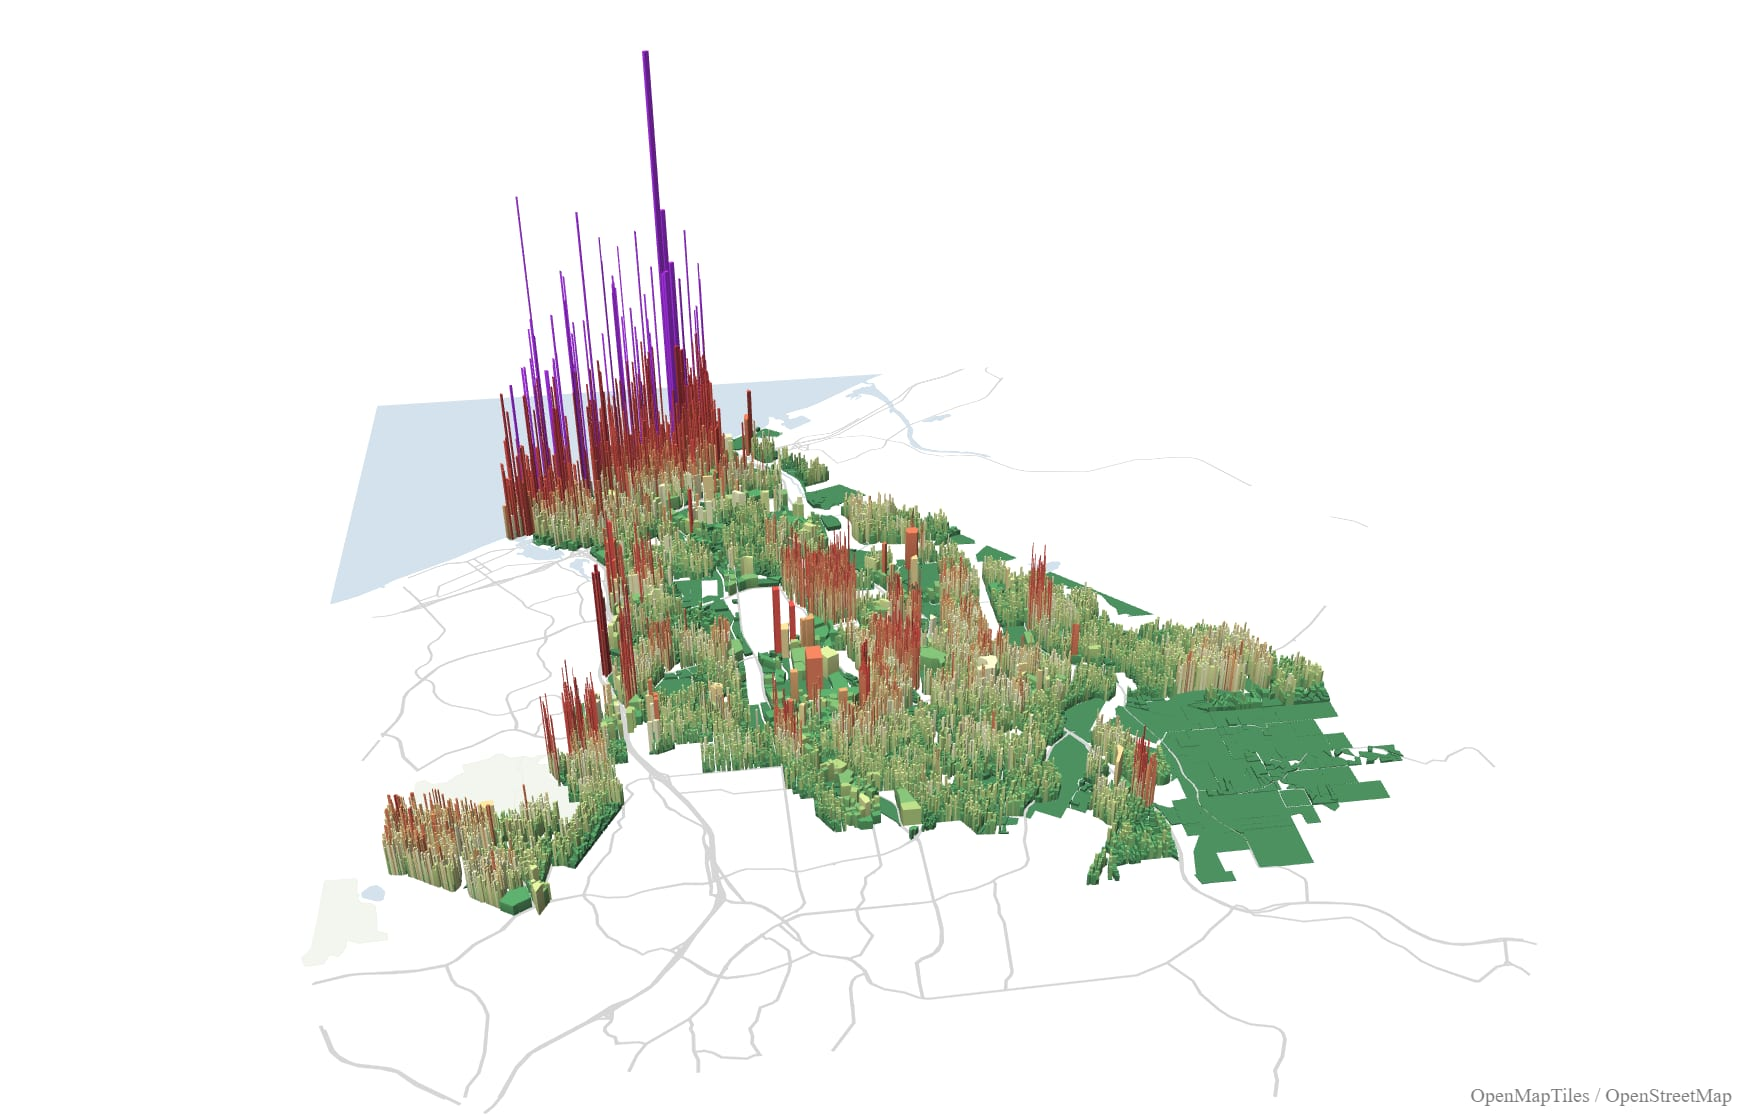
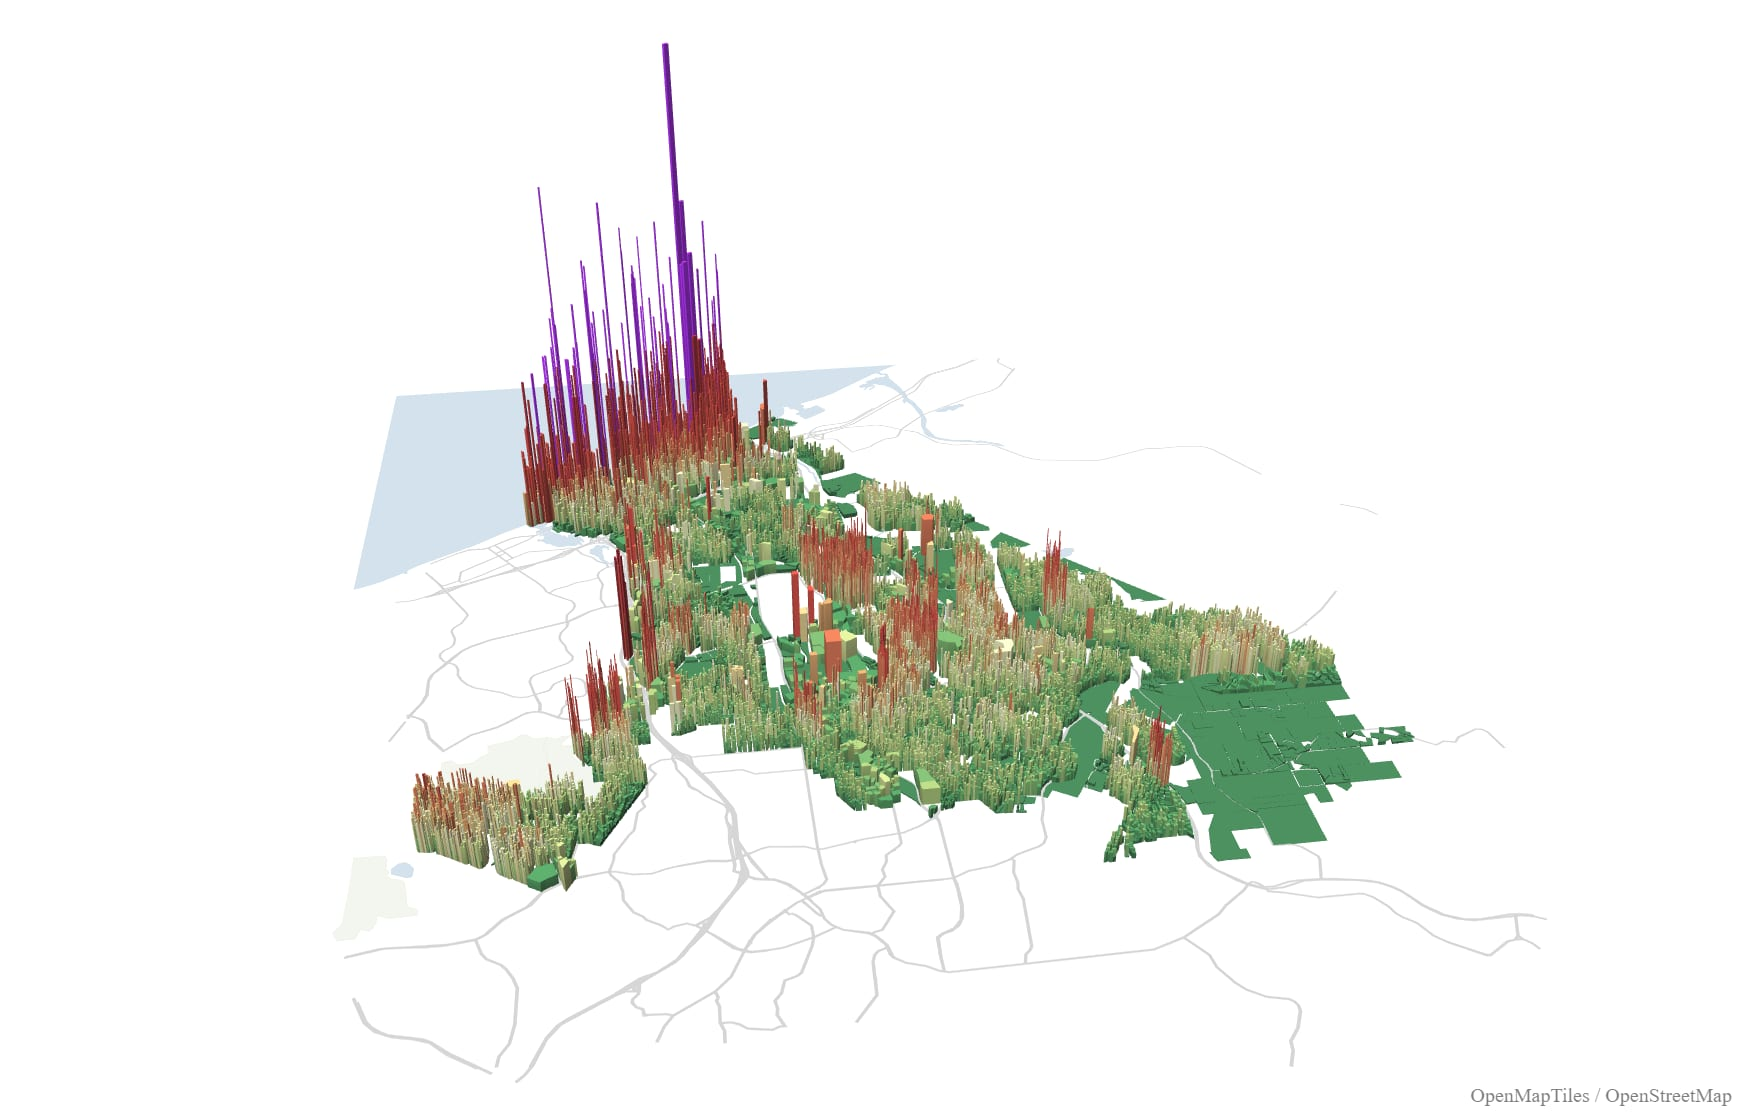
style(viz): shift default camera center + 350px mobile stage
User-picked perspective: center shifted to [-117.33561, 33.22249]
(from [-117.34013, 33.2257]) so the choropleth frames with the
purple spire where it feels editorially strong. Baked zoom stays at
10.8 -- the 10.2 value the console logger showed was the mobile
render after the -0.6 zoom offset, not a new base.

Mobile vizStage bumped from 300px to 350px for a little more room
around the content.

Desktop + mobile posters regenerated to match.

diff --git a/src/components/ArticleBlocks/article-blocks.module.css b/src/components/ArticleBlocks/article-blocks.module.css
@@ -42,7 +42,7 @@
    component is overridden. */
 @media (max-width: 768px) {
   .vizStage {
-    height: 300px !important;
+    height: 350px !important;
   }
 }
 
